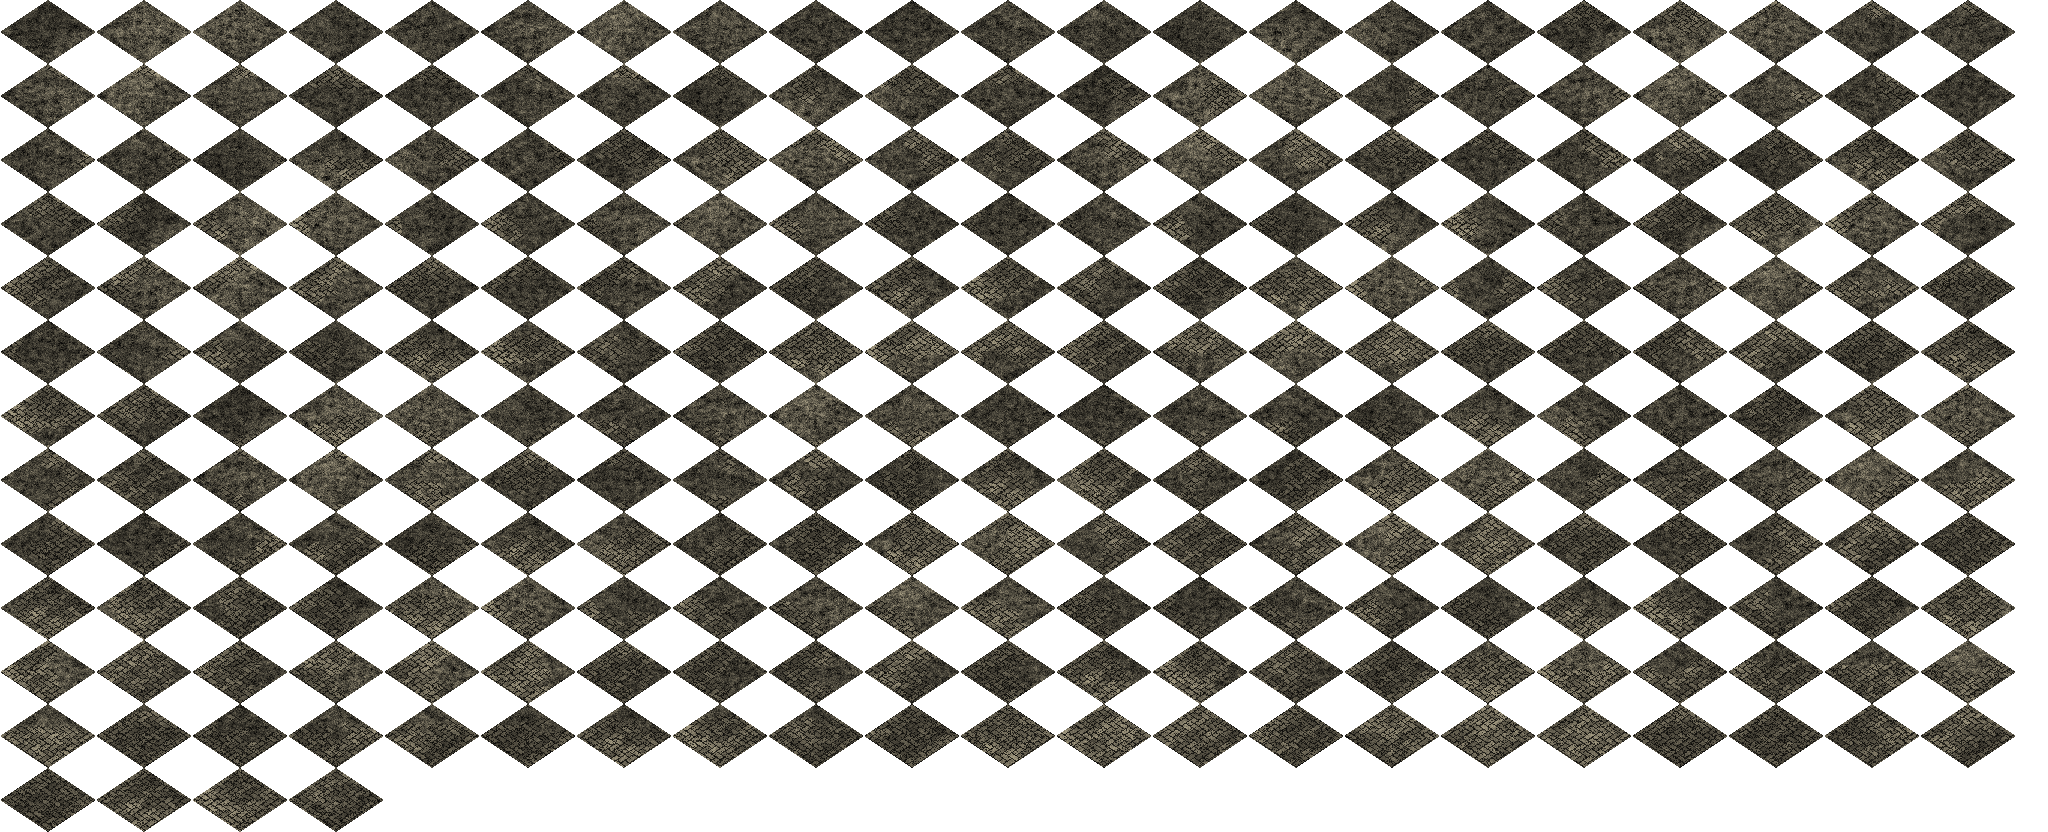
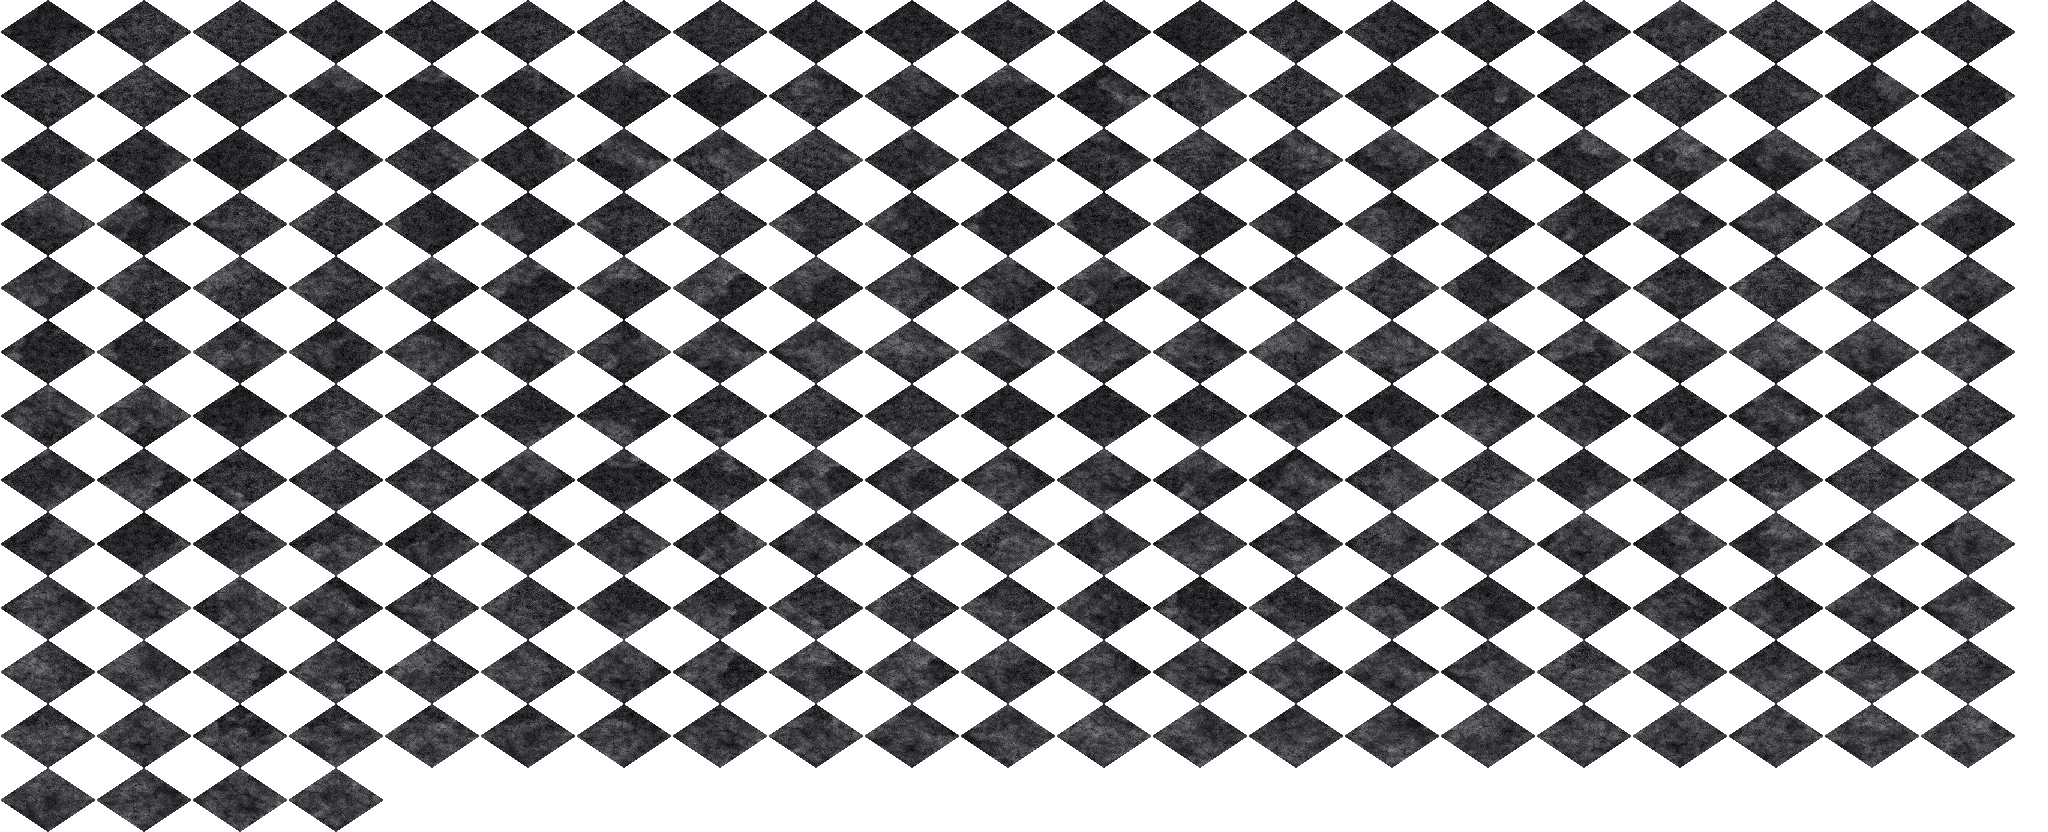
Fort and castle: floors and fort walls closer to the original
The fort's paving was a fine yellowish herringbone; it now shares the
dungeon's staggered bricks under grime, in greyer brown. The castle had
the same herringbone; it now has its own floor of smooth, finely clouded
grey stone crazed with thin cracks (ground.py kind "castle"). The fort
walls were clean mid-grey blocks; they are now weathered stone, pale
grey through a dark brown mottle, with the same stone on top.

Claude-Session: https://claude.ai/code/session_01UcMoCU5phFRDaz2VddJRC8

Changed region(s): [[0.0, 0.0, 1.0, 1.0]]

diff --git a/tools/art/ground.py b/tools/art/ground.py
@@ -191,45 +191,22 @@ class Ground:
 
 
 class Floor(Ground):
-    """A dungeon floor: worn bricks laid in a herringbone, with patches of
-    dusty rubble where the corners are 0 (instead of grass and dirt)."""
+    """A built floor, with patches of dusty rubble where the corners are 0
+    (instead of grass and dirt). "dungeon" and "fort": worn bricks in
+    staggered rows under smudges of grime, ochre or grey; "castle": smooth
+    grey stone, cloudy and faintly veined, with no joints showing."""
 
-    BRICK = 0.09  # the short side of a brick, in tiles
-    # Brick colour (mid, dark, light), mortar and rubble for each kind.
-    KINDS = {"dungeon": ((104, 88, 60), (60, 50, 34), (146, 128, 96), (34, 28, 18), (96, 84, 58)),
-             "fort": ((106, 100, 84), (64, 60, 50), (138, 132, 112), (36, 34, 28), (80, 76, 64))}
+    # Floor colour (mid, dark, light) and rubble for each kind.
+    KINDS = {"dungeon": ((104, 88, 60), (60, 50, 34), (146, 128, 96), (96, 84, 58)),
+             "fort": ((98, 88, 70), (58, 52, 40), (134, 124, 102), (80, 76, 64)),
+             "castle": ((70, 70, 74), (30, 30, 34), (112, 112, 118), (52, 52, 56))}
 
     def __init__(self, seed=1, kind="dungeon"):
         super().__init__(seed)
         self.palette = [np.array(c, dtype=float) for c in self.KINDS[kind]]
         self.kind = kind
-        self.pitting = 0.07
-        if kind == "fort":
-            self.pitting = 0.12  # more pitted paving stones
-        else:
-            # The dungeon's bricks are bigger and laid in staggered rows
-            # (see bond()), with thin soft joints and no pits.
-            self.pitting = -1.0
-        self.wear = Field([(0.5, 1.0), (0.15, 0.7)], seed + 5)  # dust and damp
         self.grime = Field([(0.4, 1.0), (0.15, 0.8), (0.05, 0.4)], seed + 8)  # smudges of dirt
-
-    def bricks(self, u, v):
-        """Brick shade (-1 to 1) and a 0-1 mortar mask, laid in herringbone:
-        pairs of cells form bricks, alternating flat and upright."""
-        x, y = np.asarray(u) / self.BRICK, np.asarray(v) / self.BRICK
-        i, j = np.floor(x).astype(int), np.floor(y).astype(int)
-        fx, fy = x - i, y - j
-        t = (i + j) % 4
-        flat = t < 2
-        # Each brick gets an id from its first cell, and a shade from that.
-        bi = np.where(flat, i - t, i)
-        bj = np.where(flat, j, j - (t - 2))
-        h = (bi * 73856093 ^ bj * 19349663 ^ flat.astype(int) * 83492791) & 0xFFFF
-        shade = h / 0x7FFF - 1
-        m = 0.09 if self.kind == "fort" else 0.07
-        mortar = np.where(flat, (fy < m) | (fy > 1 - m) | ((t == 0) & (fx < m)) | ((t == 1) & (fx > 1 - m)),
-                          (fx < m) | (fx > 1 - m) | ((t == 2) & (fy < m)) | ((t == 3) & (fy > 1 - m)))
-        return shade, mortar.astype(float)
+        self.cloud = Field([(0.12, 1.0), (0.05, 0.8), (0.02, 0.5)], seed + 9)  # the castle stone's clouding
 
     def bond(self, u, v, length=1 / 3, width=1 / 6):
         """Brick shade (-1 to 1) and a 0-1 mortar mask for bricks laid in
@@ -248,27 +225,23 @@ class Floor(Ground):
 
     def texture(self, u, v):
         big = self.big(u, v)
-        wear = self.wear(u, v)
         fine = 0.85 * self.rng.standard_normal(np.shape(u)) + 0.5 * self.fine(u, v)
-        shade, mortar = self.bricks(u, v) if self.kind == "fort" else self.bond(u, v)
-        mid, dark, light, joint_colour, rubble_colour = self.palette
-        if self.kind == "fort":
-            brick = colour(mid, dark, light, 0.45 * shade + 0.15 * big, fine, 0.12)
-            # Dust lightens some stretches and damp darkens others.
-            brick = brick * (1 + np.clip(0.18 * wear, -0.08, 0.25))[..., None]
-            joint = joint_colour * (1 + 0.2 * fine[..., None])
-        else:
-            # Flat, evenly worn bricks under broad smudges of grime: dark
-            # damp stains and paler dusty patches running across the joints.
-            grime = self.grime(u, v)
-            brick = colour(mid, dark, light, 0.55 * shade * np.abs(shade) + 0.1 * big, fine, 0.16)
-            brick = brick * (1 + np.clip(0.2 * grime, -0.2, 0.18))[..., None]
-            joint = brick * 0.6
-        floor = brick * (1 - mortar[..., None]) + joint * mortar[..., None]
-        # Pits and chips: scattered near-black specks, thicker where it is damp.
-        pits = self.rng.random(np.shape(u)) < self.pitting + 0.05 * np.clip(-wear, 0, 1)
-        floor = np.where(pits[..., None], floor * 0.3, floor)
+        mid, dark, light, rubble_colour = self.palette
         rubble = colour(rubble_colour, rubble_colour * 0.6, rubble_colour * 1.38, 0.25 * big, fine, 0.32)
+        if self.kind == "castle":
+            # Finely clouded stone, crazed with thin dark cracks.
+            if not hasattr(self, "crazing"):
+                self.crazing = plates(np.random.default_rng(self.seed + 10), 128 * PERIOD, 3)[0]
+            crack = np.clip(1 - self.sample(self.crazing, u + 0.03 * self.edge(u * 5, v * 5), v) / 0.05, 0, 1)
+            floor = colour(mid, dark, light, 0.22 * self.cloud(u, v) + 0.06 * big, fine, 0.18)
+            return floor * (1 - 0.5 * crack)[..., None], rubble, self.edge(u, v)
+        # Flat, evenly worn bricks under broad smudges of grime: dark damp
+        # stains and paler dusty patches running across the joints.
+        shade, mortar = self.bond(u, v)
+        contrast = 0.4 if self.kind == "fort" else 0.55
+        brick = colour(mid, dark, light, contrast * shade * np.abs(shade) + 0.1 * big, fine, 0.16)
+        brick = brick * (1 + np.clip(0.2 * self.grime(u, v), -0.2, 0.18))[..., None]
+        floor = brick * (1 - 0.4 * mortar[..., None])
         return floor, rubble, self.edge(u, v)
 
 
@@ -402,11 +375,11 @@ def pattern_index(corners, tx, ty):
 def build_tiles(seed=1, kind="meadow"):
     """Every tile, in pattern_index order: (image, anchor x, anchor y).
     kind is "meadow" (grass and dirt), "dungeon" (brick floor and rubble),
-    "fort" (grey stone paving and grit), "shore" (sand and water),
+    "fort" (grey brick paving and grit), "castle" (smooth grey stone), "shore" (sand and water),
     "desert" (sand and brown earth), "heath" (grass and dark soil),
     "coast" (grass and sand), "deep" (dark cavern earth and moss),
     "cave" (cracked rock and gravel) or "mine" (earth and coal dust)."""
-    g = {"dungeon": lambda: Floor(seed), "fort": lambda: Floor(seed, "fort"), "cave": lambda: Cave(seed, "cave"),
+    g = {"dungeon": lambda: Floor(seed), "fort": lambda: Floor(seed, "fort"), "castle": lambda: Floor(seed, "castle"), "cave": lambda: Cave(seed, "cave"),
          "mine": lambda: Cave(seed, "mine"), "shore": lambda: Wild(seed, "shore"),
          "desert": lambda: Wild(seed, "desert"), "heath": lambda: Wild(seed, "heath"),
          "coast": lambda: Wild(seed, "coast"), "deep": lambda: Cave(seed, "deep")}.get(kind, lambda: Ground(seed))()

diff --git a/tools/art/fort.py b/tools/art/fort.py
@@ -23,9 +23,12 @@ from dungeon import DARK, WALL_H, WALL_L, solid, turn  # noqa: E402
 from town import IRON, _mats, ball, box, cyl, mat, resize  # noqa: E402
 
 # Grey stone in blocks about 1.0 x 0.5 units, streaked with grime.
-STONE = dict(colour=(0.42, 0.41, 0.38), dark=(0.03, 0.03, 0.03), scale=34, detail=16, bump=1.6, grime=0.7,
-             band=(0.38, 0.72), bricks=dict(width=1.0, height=0.45, mortar=0.04, vary=0.8, joint=0.5))
-CAPSTONE = dict(colour=(0.34, 0.34, 0.32), dark=(0.10, 0.10, 0.10), scale=10, bump=0.9, grime=0.5)
+# Weathered stone, its courses faint: pale grey patches through a dark
+# brown mottle of grime and old stains.
+STONE = dict(colour=(0.52, 0.49, 0.43), dark=(0.07, 0.055, 0.04), scale=16, detail=16, bump=1.0, grime=0.5,
+             band=(0.4, 0.68), spot=0.45, spot_colour=(0.20, 0.13, 0.08),
+             bricks=dict(width=1.0, height=0.45, mortar=0.03, vary=0.9, joint=0.65))
+CAPSTONE = {k: v for k, v in STONE.items() if k != "bricks"}  # the same stone, uncoursed
 BLOODY = dict(STONE, spot=0.3, spot_colour=(0.34, 0.03, 0.02))
 DOORIRON = dict(colour=(0.09, 0.09, 0.10), dark=(0.02, 0.02, 0.03), scale=20, rough=0.4, bump=0.5)
 RIVET = dict(colour=(0.86, 0.80, 0.62), dark=(0.45, 0.40, 0.28), scale=40, rough=0.3)

diff --git a/tools/art/build_pack.py b/tools/art/build_pack.py
@@ -1000,7 +1000,7 @@ def castle(out, anchors, rng):
     Writes Map/castle.txt and Scenario/00000007."""
     size = 32
     floor = Atlas()
-    for t in ground.build_tiles(seed=11, kind="fort"):
+    for t in ground.build_tiles(seed=11, kind="castle"):
         floor.add(len(floor.frames), t)
     floor.write(out / "Map" / "castlefloor.sheet", "castlefloor.png")
     lo, hi = 2, 30  # the curtain wall runs round this square
